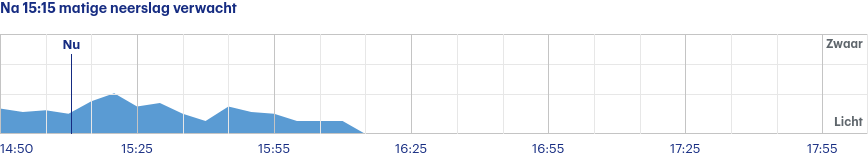
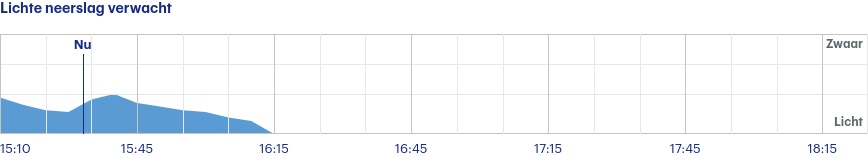
Latest scraping buienradar: Thu Aug 24 13:29:05 UTC 2023

diff --git a/scrapes/buienradar/buienradar-jette-3-uur.md b/scrapes/buienradar/buienradar-jette-3-uur.md
@@ -1,4 +1,4 @@
-Na 15:15 matige neerslag verwacht
+Lichte neerslag verwacht
 
 ![](buienradar-jette-3-uur.png)
 
